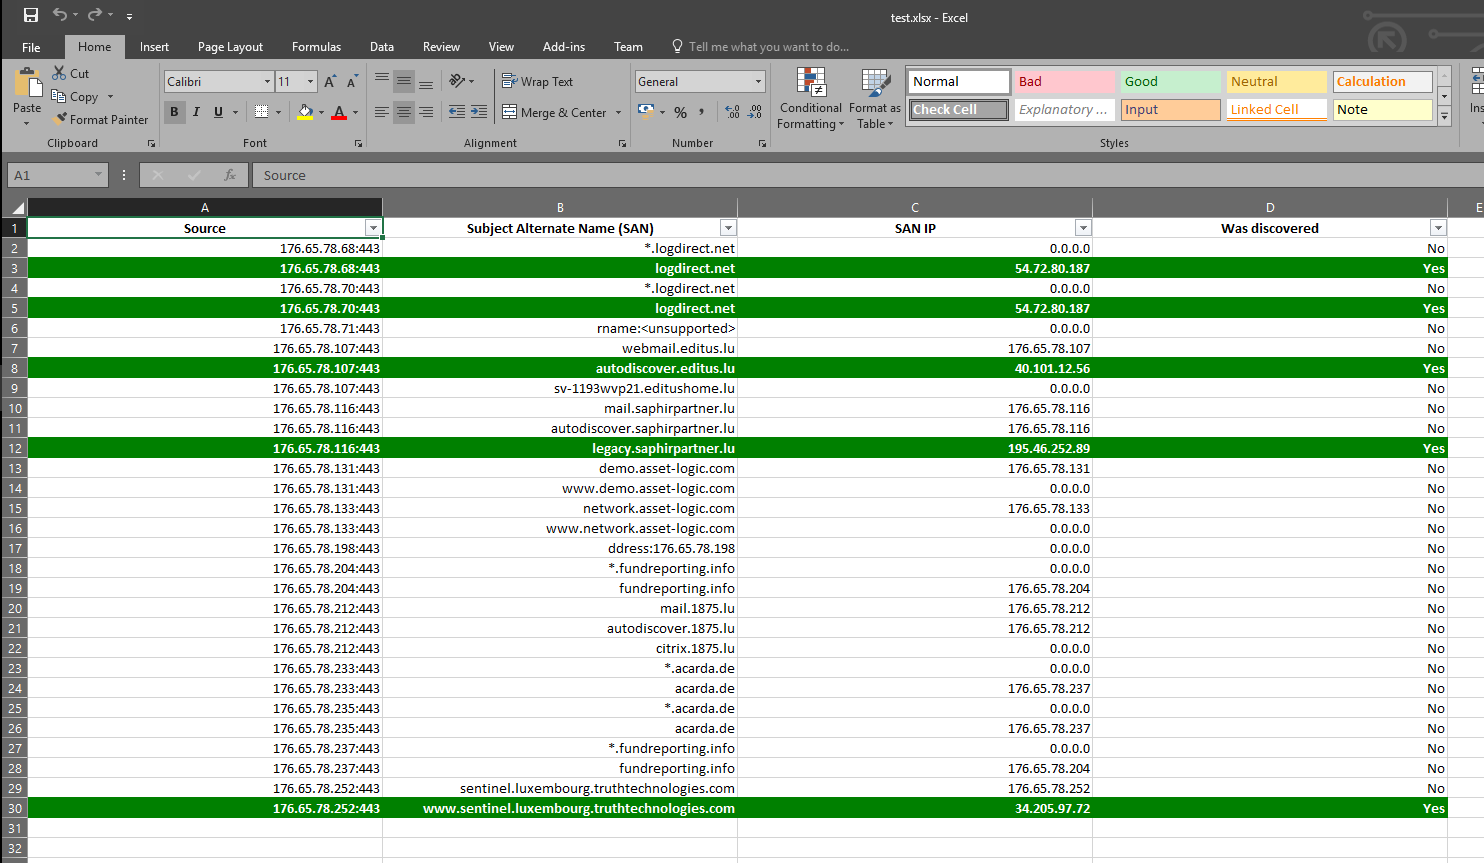
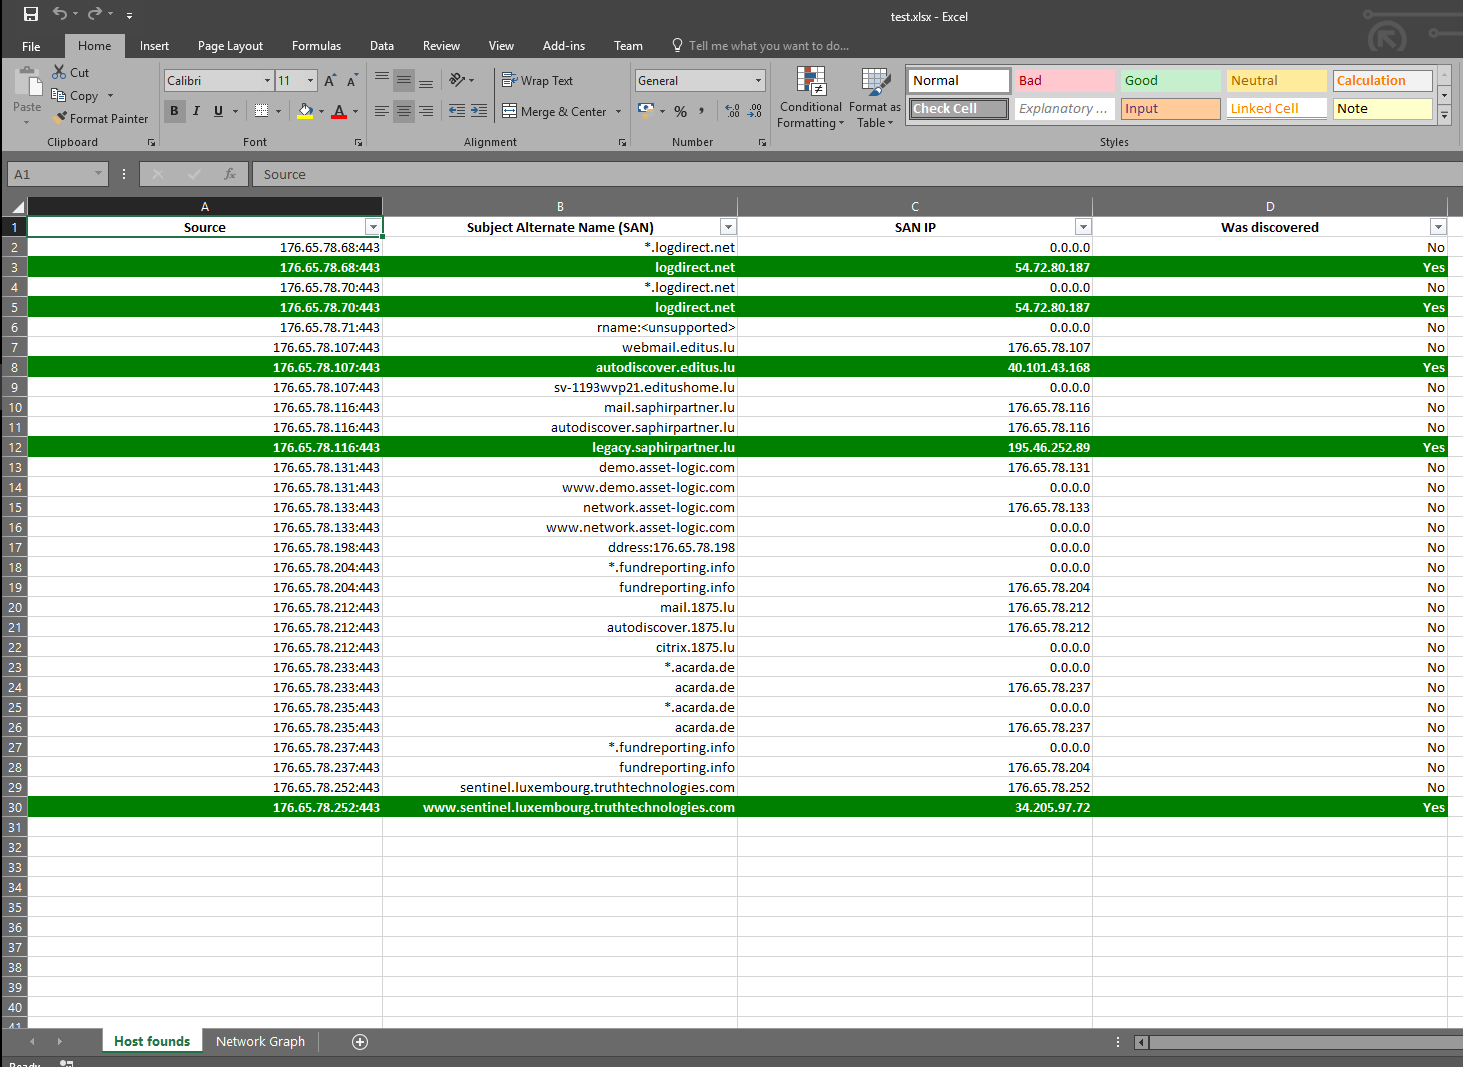
Add schema for issue #1

diff --git a/tls_cert_discovery.py b/tls_cert_discovery.py
@@ -9,6 +9,9 @@ import OpenSSL
 import argparse
 import colorama
 import xlsxwriter
+import networkx as nx
+import matplotlib.pyplot as plt
+import os
 from termcolor import colored
 from IPy import IP
 from tqdm import tqdm
@@ -138,8 +141,37 @@ if __name__ == "__main__":
                         san_infos["IS_NEW_HOST"] = False
                     data[data_key].append(san_infos)
 
+    # Generate the network graph
+    print("[*] Generate the network graph...")
+    san_added_nodes_no_linked_to_src_ip = []
+    san_added_nodes_linked_to_src_ip = []
+    src_ip_added_nodes = []
+    graph = nx.Graph()
+    for ip in data:
+        san_infos_list = data[ip]
+        ip_node_name = "IP Source\n%s" % ip
+        graph.add_node(ip_node_name)
+        src_ip_added_nodes.append(ip_node_name)
+        for san_infos in san_infos_list:
+            san_node_name = "%s\n%s" % (san_infos["SAN"], san_infos["IP"])
+            san_ip_port = san_infos["IP"] + ":443"
+            if san_ip_port in data:
+                graph.add_edge(ip_node_name, san_node_name)
+                san_added_nodes_linked_to_src_ip.append(san_node_name)
+            else:
+                graph.add_node(san_node_name)
+                san_added_nodes_no_linked_to_src_ip.append(san_node_name)
+    pos = nx.spring_layout(graph, k=3, scale=1000)
+    nx.draw_networkx_nodes(graph, pos, node_size=400, node_color='orange', nodelist=src_ip_added_nodes)
+    nx.draw_networkx_nodes(graph, pos, node_size=400, node_color='yellow', nodelist=san_added_nodes_no_linked_to_src_ip)
+    nx.draw_networkx_nodes(graph, pos, node_size=400, node_color='green', nodelist=san_added_nodes_linked_to_src_ip)
+    nx.draw_networkx_edges(graph, pos, width=2, alpha=0.5, edge_color='green', style='solid')
+    nx.draw_networkx_labels(graph, pos, font_size=4, font_family='sans-serif')
+    plt.axis('off')
+    plt.savefig("graph.png", format="png", dpi=200, orientation="landscape")
+
     # Consolidate the result in a Excel worksbook
-    print("[*] Consolidate the results in a Excel worksbook...")
+    print("[*] Consolidate the results in a Excel workbook...")
     workbook = xlsxwriter.Workbook(args.result_file)
     format_header = workbook.add_format({'bold': True, 'valign': 'vcenter', 'align': 'center'})
     worksheet = workbook.add_worksheet("Host founds")
@@ -164,5 +196,18 @@ if __name__ == "__main__":
             row += 1
     worksheet.autofilter("A1:D" + str(row))
     worksheet.set_column(0, 3, 50)
+    worksheet = workbook.add_worksheet("Network Graph")
+    format_header = workbook.add_format({'bold': True, 'valign': 'vcenter', 'align': 'left'})
+    format_text = workbook.add_format({'bold': False, 'valign': 'vcenter', 'align': 'left'})
+    worksheet.write("A1", "Legend:", format_header)
+    worksheet.write("A2", "Circle in orange", format_header)
+    worksheet.write("B2", "Source IP included in the IP range to analyze", format_text)
+    worksheet.write("A3", "Circle in green + linked line", format_header)
+    worksheet.write("B3", "Relation between a source IP and a Subject Alternate Name", format_text)
+    worksheet.write("A4", "Circle in yellow", format_header)
+    worksheet.write("B4", "Subject Alternate Name without relation with a source IP", format_text)
+    worksheet.insert_image("A5", "graph.png", {'x_offset': 5, 'y_offset': 5, 'x_scale': 2, 'y_scale': 2})
+    worksheet.set_column(0, 2, 57)
     workbook.close()
+    os.remove("graph.png")
     print(colored("[!] Results consolidated in file '%s' !" % args.result_file, "green"))

diff --git a/README.md b/README.md
@@ -69,6 +69,11 @@ Execution of the tool:
 
 ![demo1](demo1.png)
 
-Result are consolidated in a Excel worksheet in which new discovered hosts are highlighted in green. The result also include all the SAN founds for each IP on which an HTTP TLS certificate is available on port 443:
+Result are consolidated in a Excel worksheet in which new discovered hosts are highlighted in green. 
+The result also include all the SAN founds for each IP on which an HTTP TLS certificate is available on port 443:
 
 ![demo2](demo2.png)
+
+Another tab is added in which a network graph is inserted in order to show the relation between source IP(s) and SAN founds.
+
+![demo3](demo3.png)
